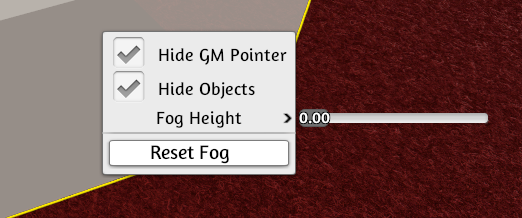
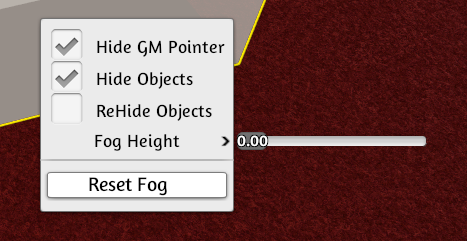
Patch 11.1

diff --git a/docs/game-tools/zone-tools.md b/docs/game-tools/zone-tools.md
@@ -101,6 +101,7 @@ Right-click on a Fog of War zone will do two thing. First, it copy the GUID into
 
 * **Hide GM Pointer**: If checked, this prevents players from seeing the hand cursor of the player in the Black seat.
 * **Hide Objects**: If checked, this causes the fog to hide objects. If you uncheck it, it will just make a black plane which obscures anything under it.
+* **ReHide Objects**: If checked, this causes any object that had been revealed in the fog to become hidden again if it is not in direct "line of sight" of a revealer.
 * **Fog Height**: How high up the black plane is placed within the zone.
 * **Reset Fog**: Causes any revealed fog to obscure again, as if it had been newly drawn.
 

diff --git a/docs/custom-content/custom-jigsaw.md b/docs/custom-content/custom-jigsaw.md
@@ -10,6 +10,9 @@ In-game, navigate to the top of your screen and select **Games > Classic > Jigsa
 
 You can select how many pieces the jigsaw puzzle will have (20-320) as well as if the image will appear on the board too, as a guide.
 
+!!!tip "Shuffling pieces or Checking if Solved"
+    If you right-click on the game box, you will see 2 content menu options: `Check` and `Shuffle`. `Check` will check if you have completed the puzzle. `Shuffle` will take all game pieces and shuffle them around the board.
+
 <center>![Jigsaw](/img/custom-jigsaw/final.png)</center>
 
 ---
